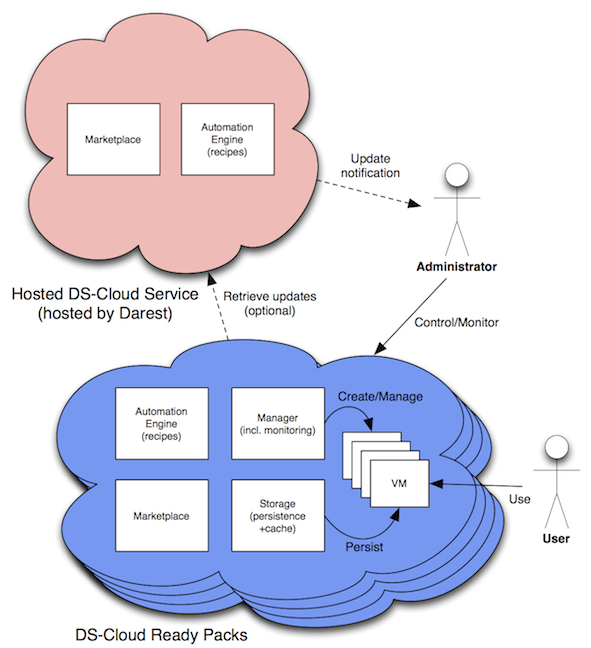
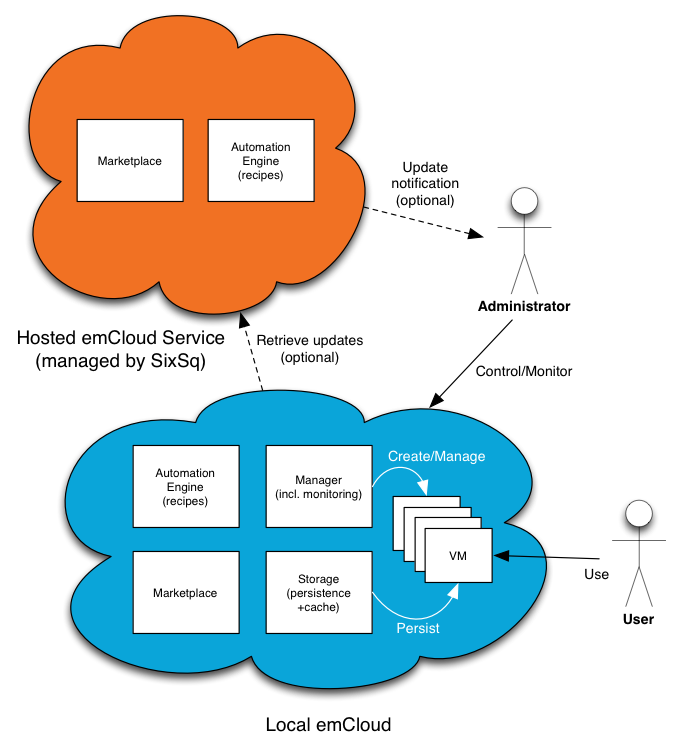
Updated - removed reference to Darest - improved image

diff --git a/_posts/2012-01-01-product-readypack.md b/_posts/2012-01-01-product-readypack.md
@@ -1,35 +1,43 @@
 ---
 layout: article
-title: DS-Cloud Ready Pack
-title2: DS-Cloud &nbsp; Ready &nbsp; Pack
+title: emCloud Solution
+title2: emCloud &nbsp; Solution
 class: ready_pack 
 category: products
 permalink: /products/readypack.html
 image: /img/design/ready_pack_category.png
 ---
 
-Simple, yet powerful, cloud solution for small and medium enterprises.  The DS-Cloud Ready Pack is the result of a tight collaboration between [Darest](http://www.darest.ch) and SixSq.
+Simple, yet powerful, IaaS and PaaS cloud solution for small and medium enterprises.  With emCloud, SixSq's embedded cloud solution, you can deploy your own private cloud within minutes. emCloud is delivered as a software bundle or a turn key solution (factory certified hardware and
+software), including support, maintenance and training services, allowing you can focus on your operations.
 
-This new product announced on March 15 is an entry point into private cloud computing, based
-on open source software.
-The solution packaged and distributed by Darest and powered by SixSq's cloud
-software solution, offers an affordable solution for small to moderate cloud size.
+This new product is an entry point into private cloud computing, based entirely on open source software.
+The solution, packaged and distributed by SixSq, offers an affordable solution for small to moderate sized clouds.
 
-This Infrastructure as a Service (IaaS) solution includes the [StratusLab](http://stratuslab.eu) stack (which includes [OpenNebula](http://opennebula.org) for managing virtual machines) and is configured
-to work with the [KVM hypervisor](http://www.linux-kvm.org). The solution is also augmented with [SlipStream](/products/slipstream.html), SixSq's automated deployment engine. This means that automated, reproducible and safe provisioning of entire virtual environments is available, right from the start.
+The Infrastructure as a Service (IaaS) solution includes the [StratusLab](http://stratuslab.eu) stack for managing virtual machines and is configured to work with the open source industry leader [KVM hypervisor](http://www.linux-kvm.org). The solution also includes the [SlipStream™](/products/slipstream.html) PaaS, SixSq's multi-cloud provisioning and image factory automation engine. This means that automated, reproducible and safe provisioning of entire virtual environments is available, right from the start.
 
 ![Overview](/img/content/cib-overview.png "Services Federation Overview")
 
-A series of innovative services are also offered, with for example:
+The hardware solution comes in **two** flavours. Note that both solutions can be *stacked*, meaning that more hardware can be
+added to increase the capacity of the system, if and when demand grows.
 
-* **Reference Marketplace Service**: including certified and updated reference virtual machines
-* **Reference SlipStream Service**: including automatically created reference virtual machines
+* **Consumer**: a small form factor with enough resources to manage a small number of VMs. Can be placed in an office or meeting
+  environment.
+* **Enterprise**: a mini-tower or blade-type packaging, able to nicely integrate in rack-based installations or back-office
+  environment.
+
+This compact cloud solution can be interfaced with SixSq's innovative services:
+
+* **Reference Marketplace Service**: including certified and updated base virtual machines
+* **Reference SlipStream™ Service**: including automatically created reference virtual machines
   ready to use in deployments
 * **Monitoring Service**: providing near-realtime monitoring of physical and virtual machines
   with automatic alert and intervention (optional and according to agreed SLA)
-* **Custom turn key solution**: including the entire software stack required by the customer
-  organisation. This offer is managed as dedicated projects, where the DS-Cloud Ready Pack is
-  a core building block.
+  
+SixSq can also develop **custom deployments and image creation recipes** to help you automate part of or your entire
+development, certification and production deployment value chain.
 
-The DS-Cloud Ready Pack can also be interconnected to an elastic cloud service, making cloud bursting possible, therefore allowing users to seize their private cloud for nominal operations, instead of over-provisioning their solution. Further, the outbursting solution, being pre-integrated, comes at no extra software or configuration costs.
+The emCloud solution can also be interconnected to an elastic cloud service, making cloud bursting possible, therefore allowing you to use your emCloud for nominal operations, instead of over-seizing it for peak scenarios.
 
+Finally, SixSq has a strong heritage in distributed systems, which we bring to this solution in the form of federated emCloud solutions.  This means several emCloud solutions can be interconnected to maximise sharing and
+optimise resource utilisation. 
